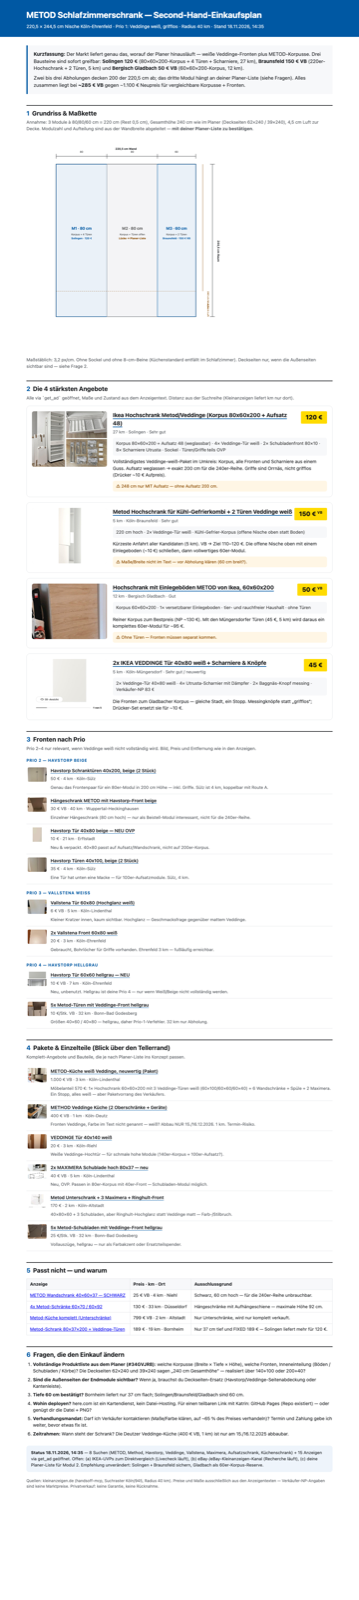
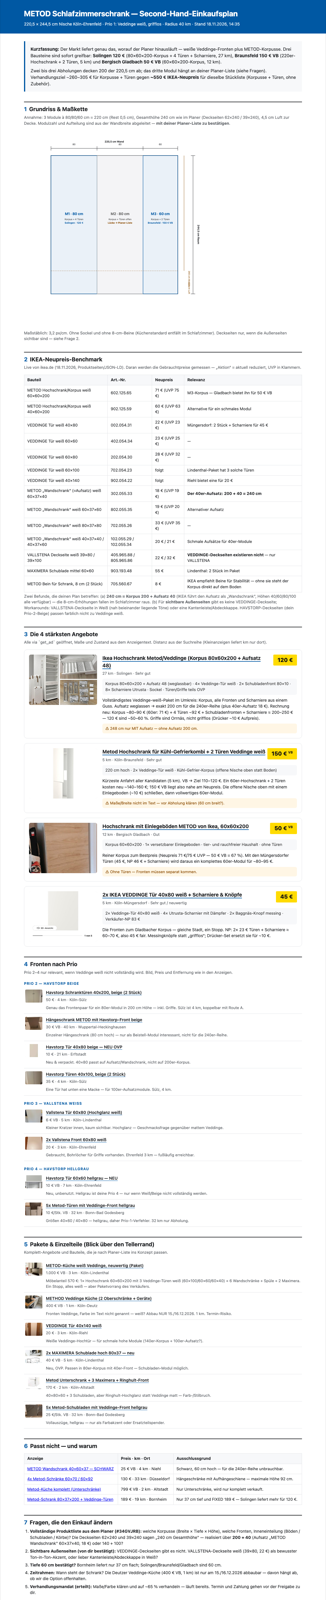
Update: IKEA-UVPs, 240cm-Befund, Verhandlungsstatus

diff --git a/metod-schlafzimmer.html b/metod-schlafzimmer.html
@@ -57,7 +57,7 @@ svg text { font-family:inherit; }
 
 <div class="verdict">
   <p><b>Kurzfassung:</b> Der Markt liefert genau das, worauf der Planer hinausläuft — weiße Veddinge-Fronten plus METOD-Korpusse. Drei Bausteine sind sofort greifbar: <b>Solingen 120 €</b> (80×60×200-Korpus + 4 Türen + Scharniere, 27 km), <b>Braunsfeld 150 € VB</b> (220er-Hochschrank + 2 Türen, 5 km) und <b>Bergisch Gladbach 50 € VB</b> (60×60×200-Korpus, 12 km).</p>
-  <p>Zwei bis drei Abholungen decken 200 der 220,5 cm ab; das dritte Modul hängt an deiner Planer-Liste (siehe Fragen). Alles zusammen liegt bei <b>~285 € VB</b> gegen ~1.100 € Neupreis für vergleichbare Korpusse + Fronten.</p>
+  <p>Zwei bis drei Abholungen decken 200 der 220,5 cm ab; das dritte Modul hängt an deiner Planer-Liste (siehe Fragen). Verhandlungsziel ~260–305 € für Korpusse + Türen gegen <b>~550 € IKEA-Neupreis</b> für dieselbe Stückliste (Korpusse + Türen, ohne Zubehör).</p>
 </div>
 
 <h2><span class="n">1</span>Grundriss & Maßkette</h2>
@@ -96,7 +96,28 @@ svg text { font-family:inherit; }
 </svg>
 <div class="lead">Maßstäblich: 3,2 px/cm. Ohne Sockel und ohne 8-cm-Beine (Küchenstandard entfällt im Schlafzimmer). Deckseiten nur, wenn die Außenseiten sichtbar sind — siehe Frage 2.</div>
 
-<h2><span class="n">2</span>Die 4 stärksten Angebote</h2>
+<h2><span class="n">2</span>IKEA-Neupreis-Benchmark</h2>
+<div class="lead">Live von ikea.de (18.11.2026, Produktseiten/JSON-LD). Daran werden die Gebrauchtpreise gemessen — „Aktion“ = aktuell reduziert, UVP in Klammern.</div>
+<table class="fit">
+<tr><th>Bauteil</th><th>Art.-Nr.</th><th>Neupreis</th><th>Relevanz</th></tr>
+<tr><td>METOD Hochschrank/Korpus weiß 60×60×200</td><td>602.125.65</td><td>71 € (UVP 75 €)</td><td>M3-Korpus — Gladbach bietet ihn für 50 € VB</td></tr>
+<tr><td>METOD Hochschrank/Korpus weiß 40×60×200</td><td>902.125.59</td><td>60 € (UVP 63 €)</td><td>Alternative für ein schmales Modul</td></tr>
+<tr><td>VEDDINGE Tür weiß 40×80</td><td>002.054.31</td><td>22 € (UVP 23 €)</td><td>Müngersdorf: 2 Stück + Scharniere für 45 €</td></tr>
+<tr><td>VEDDINGE Tür weiß 60×60</td><td>402.054.34</td><td>23 € (UVP 25 €)</td><td>—</td></tr>
+<tr><td>VEDDINGE Tür weiß 60×80</td><td>202.054.30</td><td>28 € (UVP 32 €)</td><td>—</td></tr>
+<tr><td>VEDDINGE Tür weiß 60×100</td><td>702.054.23</td><td>folgt</td><td>Lindenthal-Paket hat 3 solche Türen</td></tr>
+<tr><td>VEDDINGE Tür weiß 40×140</td><td>902.054.22</td><td>folgt</td><td>Riehl bietet eine für 20 €</td></tr>
+<tr><td>METOD „Wandschrank“ (=Aufsatz) weiß 60×37×40</td><td>302.055.33</td><td>18 € (UVP 19 €)</td><td><b>Der 40er-Aufsatz: 200 + 40 = 240 cm</b></td></tr>
+<tr><td>METOD „Wandschrank“ weiß 60×37×60</td><td>802.055.35</td><td>19 € (UVP 20 €)</td><td>Alternativer Aufsatz</td></tr>
+<tr><td>METOD „Wandschrank“ weiß 80×37×80</td><td>702.055.26</td><td>33 € (UVP 35 €)</td><td>—</td></tr>
+<tr><td>METOD „Wandschrank“ weiß 40×37×40 / 40×37×60</td><td>102.055.29 / 102.055.34</td><td>20 € / 21 €</td><td>Schmale Aufsätze für 40er-Module</td></tr>
+<tr><td>VALLSTENA Deckseite weiß 39×80 / 39×100</td><td>405.965.88 / 805.965.86</td><td>22 € / 32 €</td><td><b>VEDDINGE-Deckseiten existieren nicht</b> — nur VALLSTENA</td></tr>
+<tr><td>MAXIMERA Schublade mittel 60×60</td><td>903.193.48</td><td>55 €</td><td>Lindenthal: 2 Stück im Paket</td></tr>
+<tr><td>METOD Bein für Schrank, 8 cm (2 Stück)</td><td>705.560.67</td><td>8 €</td><td>IKEA empfiehlt Beine für Stabilität — ohne sie steht der Korpus direkt auf dem Boden</td></tr>
+</table>
+<div class="lead">Zwei Befunde, die deinen Plan betreffen: (a) <b>240 cm = Korpus 200 + Aufsatz 40</b> (IKEA führt den Aufsatz als „Wandschrank", Höhen 40/60/80/100 alle verfügbar) — die 8-cm-Erhöhungen fallen im Schlafzimmer raus. (b) Für <b>sichtbare Außenseiten</b> gibt es keine VEDDINGE-Deckseite; Workarounds: VALLSTENA-Deckseite in Weiß (nah beieinander liegende Töne) oder eine Kantenleiste/Abdeckkappe. HAVSTORP-Deckseiten (dein Prio-2-Beige) passen farblich nicht zu Veddinge weiß.</div>
+
+<h2><span class="n">3</span>Die 4 stärksten Angebote</h2>
 <div class="lead">Alle via `get_ad` geöffnet, Maße und Zustand aus dem Anzeigentext. Distanz aus der Suchreihe (Kleinanzeigen liefert km nur dort).</div>
 <div id="heroes">
 
@@ -107,7 +128,7 @@ svg text { font-family:inherit; }
         <div class="herotitel"><a href="https://www.kleinanzeigen.de/s-anzeige/ikea-hochschrank-metod-veddinge-248x80cm/3568837399">Ikea Hochschrank Metod/Veddinge (Korpus 80x60x200 + Aufsatz 48)</a></div>
         <div class="meta">27 km · Solingen · Sehr gut</div>
         <div class="kern">Korpus 80×60×200 + Aufsatz 48 (weglassbar) · 4× Veddinge-Tür weiß · 2× Schubladenfront 80×10 · 8× Scharniere Utrusta · Sockel · Türen/Griffe teils OVP</div>
-        <div class="urteil">Vollständigstes Veddinge-weiß-Paket im Umkreis: Korpus, alle Fronten und Scharniere aus einem Guss. Aufsatz weglassen → exakt 200 cm für die 240er-Reihe. Griffe sind Orrnäs, nicht grifflos (Drücker ~10 € Aufpreis).</div>
+        <div class="urteil">Vollständigstes Veddinge-weiß-Paket im Umkreis: Korpus, alle Fronten und Scharniere aus einem Guss. Aufsatz weglassen → exakt 200 cm für die 240er-Reihe (plus 40er-Aufsatz 18 €). Rechnung neu: Korpus ~80–90 € (60er: 71 €) + 4 Türen ~92 € + Schubladenfronten + Scharniere ≈ 200–250 € — 120 € sind ~50–60 %. Griffe sind Orrnäs, nicht grifflos (Drücker ~10 € Aufpreis).</div>
         <div class="warn">⚠ 248 cm nur MIT Aufsatz — ohne Aufsatz 200 cm.</div>
       </div>
     </div>
@@ -118,7 +139,7 @@ svg text { font-family:inherit; }
         <div class="herotitel"><a href="https://www.kleinanzeigen.de/s-anzeige/metod-hochschrank-fuer-kuehl-gefrierkombination-2-tueren-veddinge/3567980829">Metod Hochschrank für Kühl-Gefrierkombi + 2 Türen Veddinge weiß</a></div>
         <div class="meta">5 km · Köln-Braunsfeld · Sehr gut</div>
         <div class="kern">220 cm hoch · 2× Veddinge-Tür weiß · Kühl-Gefrier-Korpus (offene Nische oben statt Boden)</div>
-        <div class="urteil">Kürzeste Anfahrt aller Kandidaten (5 km). VB → Ziel 110–120 €. Die offene Nische oben mit einem Einlegeboden (~10 €) schließen, dann vollwertiges 60er-Modul.</div>
+        <div class="urteil">Kürzeste Anfahrt aller Kandidaten (5 km). VB → Ziel 110–120 €. Ein 60er-Hochschrank + 2 Türen kosten neu ~140–160 €; 150 € VB liegt also nahe am Neupreis. Die offene Nische oben mit einem Einlegeboden (~10 €) schließen, dann vollwertiges 60er-Modul.</div>
         <div class="warn">⚠ Maße/Breite nicht im Text — vor Abholung klären (60 cm breit?).</div>
       </div>
     </div>
@@ -129,7 +150,7 @@ svg text { font-family:inherit; }
         <div class="herotitel"><a href="https://www.kleinanzeigen.de/s-anzeige/hochschrank-mit-einlegeboeden-metod-von-ikea-60x60x200/3575163085">Hochschrank mit Einlegeböden METOD von Ikea, 60x60x200</a></div>
         <div class="meta">12 km · Bergisch Gladbach · Gut</div>
         <div class="kern">Korpus 60×60×200 · 1× versetzbarer Einlegeboden · tier- und rauchfreier Haushalt · ohne Türen</div>
-        <div class="urteil">Reiner Korpus zum Bestpreis (NP ~130 €). Mit den Müngersdorfer Türen (45 €, 5 km) wird daraus ein komplettes 60er-Modul für ~95 €.</div>
+        <div class="urteil">Reiner Korpus zum Bestpreis (Neupreis 71 €/75 € UVP — 50 € VB = 67 %). Mit den Müngersdorfer Türen (45 €, NP 46 € + Scharniere) wird daraus ein komplettes 60er-Modul für ~80–95 €.</div>
         <div class="warn">⚠ Ohne Türen — Fronten müssen separat kommen.</div>
       </div>
     </div>
@@ -140,13 +161,13 @@ svg text { font-family:inherit; }
         <div class="herotitel"><a href="https://www.kleinanzeigen.de/s-anzeige/2x-ikea-veddinge-tuer-40x80-weiss-scharniere-knoepfe/3573441456">2x IKEA VEDDINGE Tür 40x80 weiß + Scharniere & Knöpfe</a></div>
         <div class="meta">5 km · Köln-Müngersdorf · Sehr gut / neuwertig</div>
         <div class="kern">2× Veddinge-Tür 40×80 weiß · 4× Utrusta-Scharnier mit Dämpfer · 2× Baggnäs-Knopf messing · Verkäufer-NP 83 €</div>
-        <div class="urteil">Die Fronten zum Gladbacher Korpus — gleiche Stadt, ein Stopp. Messingknöpfe statt „grifflos“; Drücker-Set ersetzt sie für ~10 €.</div>
+        <div class="urteil">Die Fronten zum Gladbacher Korpus — gleiche Stadt, ein Stopp. NP: 2× 23 € Türen + Scharniere ≈ 60–70 €, also 45 € fair. Messingknöpfe statt „grifflos“; Drücker-Set ersetzt sie für ~10 €.</div>
         
       </div>
     </div>
 </div>
 
-<h2><span class="n">3</span>Fronten nach Prio</h2>
+<h2><span class="n">4</span>Fronten nach Prio</h2>
 <div class="lead">Prio 2–4 nur relevant, wenn Veddinge weiß nicht vollständig wird. Bild, Preis und Entfernung wie in den Anzeigen.</div>
 <div class="priohead">Prio 2 — Havstorp beige</div>
 
@@ -219,7 +240,7 @@ svg text { font-family:inherit; }
       </div>
     </div>
 
-<h2><span class="n">4</span>Pakete & Einzelteile (Blick über den Tellerrand)</h2>
+<h2><span class="n">5</span>Pakete & Einzelteile (Blick über den Tellerrand)</h2>
 <div class="lead">Komplett-Angebote und Bauteile, die je nach Planer-Liste ins Konzept passen.</div>
 
     <div class="row" data-prio="B">
@@ -271,23 +292,22 @@ svg text { font-family:inherit; }
       </div>
     </div>
 
-<h2><span class="n">5</span>Passt nicht — und warum</h2>
+<h2><span class="n">6</span>Passt nicht — und warum</h2>
 <table class="fit">
 <tr><th>Anzeige</th><th>Preis · km · Ort</th><th>Ausschlussgrund</th></tr>
 <tr><td><a href="https://www.kleinanzeigen.de/s-anzeige/metod-wandschrank-mit-boeden-tuer/3575174255">METOD Wandschrank 40×60×37 — SCHWARZ</a></td><td>25 € VB · 4 km · Niehl</td><td>Schwarz, 60 cm hoch — für die 240er-Reihe unbrauchbar.</td></tr><tr><td><a href="https://www.kleinanzeigen.de/s-anzeige/ikea-metod-kueche/3575047657">4x Metod-Schränke 60×70 / 60×92</a></td><td>130 € · 33 km · Düsseldorf</td><td>Hängeschränke mit Aufhängeschiene — maximale Höhe 92 cm.</td></tr><tr><td><a href="https://www.kleinanzeigen.de/s-anzeige/ikea-metod-kueche/3574827709">Metod-Küche komplett (Unterschränke)</a></td><td>799 € VB · 2 km · Altstadt</td><td>Nur Unterschränke, wird nur komplett verkauft.</td></tr><tr><td><a href="https://www.kleinanzeigen.de/s-anzeige/ikea-metod-schrank-80x37x200cm-mit-veddinge-tueren/3573649313">Metod-Schrank 80×37×200 + Veddinge-Türen</a></td><td>189 € · 19 km · Bornheim</td><td>Nur 37 cm tief und FIXED 189 € — Solingen liefert mehr für 120 €.</td></tr>
 </table>
 
-<h2><span class="n">6</span>Fragen, die den Einkauf ändern</h2>
+<h2><span class="n">7</span>Fragen, die den Einkauf ändern</h2>
 <ol class="ql">
-<li><b>Vollständige Produktliste aus dem Planer (#34GVJRB):</b> welche Korpusse (Breite × Tiefe × Höhe), welche Fronten, Inneneinteilung (Böden / Schubladen / Körbe)? Die Deckseiten 62×240 und 39×240 sagen „240 cm Gesamthöhe" — realisiert über 140+100 oder 200+40?</li>
-<li><b>Sind die Außenseiten der Endmodule sichtbar?</b> Wenn ja, brauchst du Deckseiten-Ersatz (Havstorp/Veddinge-Seitenabdeckung oder Kantenleiste).</li>
+<li><b>Vollständige Produktliste aus dem Planer (#34GVJRB):</b> welche Korpusse (Breite × Tiefe × Höhe), welche Fronten, Inneneinteilung (Böden / Schubladen / Körbe)? Die Deckseiten 62×240 und 39×240 sagen „240 cm Gesamthöhe" — realisiert über <b>200 + 40</b> (Aufsatz „METOD Wandschrank" 60×37×40, 18 €) oder 140 + 100?</li>
+<li><b>Sichtbare Außenseiten (von dir bestätigt):</b> VEDDINGE-Deckseiten gibt es nicht. VALLSTENA-Deckseite weiß (39×80, 22 €) als bewusster Ton-in-Ton-Akzent, oder lieber Kantenleiste/Abdeckkappe in Weiß?</li>
 <li><b>Tiefe 60 cm bestätigt?</b> Bornheim liefert nur 37 cm flach; Solingen/Braunsfeld/Gladbach sind 60 cm.</li>
-<li><b>Wohin deployen?</b> here.com ist ein Kartendienst, kein Datei-Hosting. Für einen teilbaren Link mit Katrin: GitHub Pages (Repo existiert) — oder genügt dir die Datei + PNG?</li>
-<li><b>Verhandlungsmandat:</b> Darf ich Verkäufer kontaktieren (Maße/Farbe klären, auf ~65 % des Preises verhandeln)? Termin und Zahlung gebe ich weiter, bevor etwas fix ist.</li>
-<li><b>Zeitrahmen:</b> Wann steht der Schrank? Die Deutzer Veddinge-Küche (400 € VB, 1 km) ist nur am 15./16.12.2025 abbaubar.</li>
+<li><b>Zeitrahmen:</b> Wann steht der Schrank? Die Deutzer Veddinge-Küche (400 € VB, 1 km) ist nur am 15./16.12.2026 abbaubar — davon hängt ab, ob wir die Option offenhalten.</li>
+<li><b>Verhandlungsmandat (erteilt):</b> Maße/Farbe klären und auf ~65 % verhandeln — läuft bereits. Termin und Zahlung gehen vor der Freigabe zu dir.</li>
 </ol>
 
-<div class="status"><b>Status 18.11.2026, 14:35</b> — 8 Suchen (METOD, Method, Havstorp, Veddinge, Vallstena, Maximera, Aufsatzschrank, Küchenschrank) + 15 Anzeigen via get_ad geöffnet. Offen: (a) IKEA-UVPs zum Direktvergleich (Livecheck läuft), (b) eBay-/eBay-Kleinanzeigen-Kanal (Recherche läuft), (c) deine Planer-Liste für Modul 2. Empfehlung unverändert: Solingen + Braunsfeld sichern, Gladbach als 60er-Korpus-Reserve.</div>
+<div class="status"><b>Status 18.11.2026, 14:55</b> — 8 Suchen + 15 Anzeigen via get_ad, IKEA-UVPs live (ikea.de/JSON-LD). <b>Verhandlung läuft:</b> Braunsfeld (Maße/Farbe/Nische, Angebot 100–110 €), Bergisch Gladbach (Korpusfarbe/Höhe, Angebot 30–35 €), Deutz (Fronten weiß? Maße? nur Möbel?) — alle drei Threads OUTBOUND, Antworten offen. Offen: eBay-Kanal (Subagent läuft), deine Planer-Liste für Modul 2, VEDDINGE-Preise 60×100/40×140. Empfehlung unverändert: Solingen + Braunsfeld sichern, Gladbach als 60er-Korpus-Reserve.</div>
 
 <div class="foot">Quellen: kleinanzeigen.de (handsoff-mcp, Suchraster Köln/945, Radius 40 km). Preise und Maße ausschließlich aus den Anzeigentexten — Verkäufer-NP-Angaben sind keine Marktpreise. Privatverkauf: keine Garantie, keine Rücknahme.</div>
 </div>
